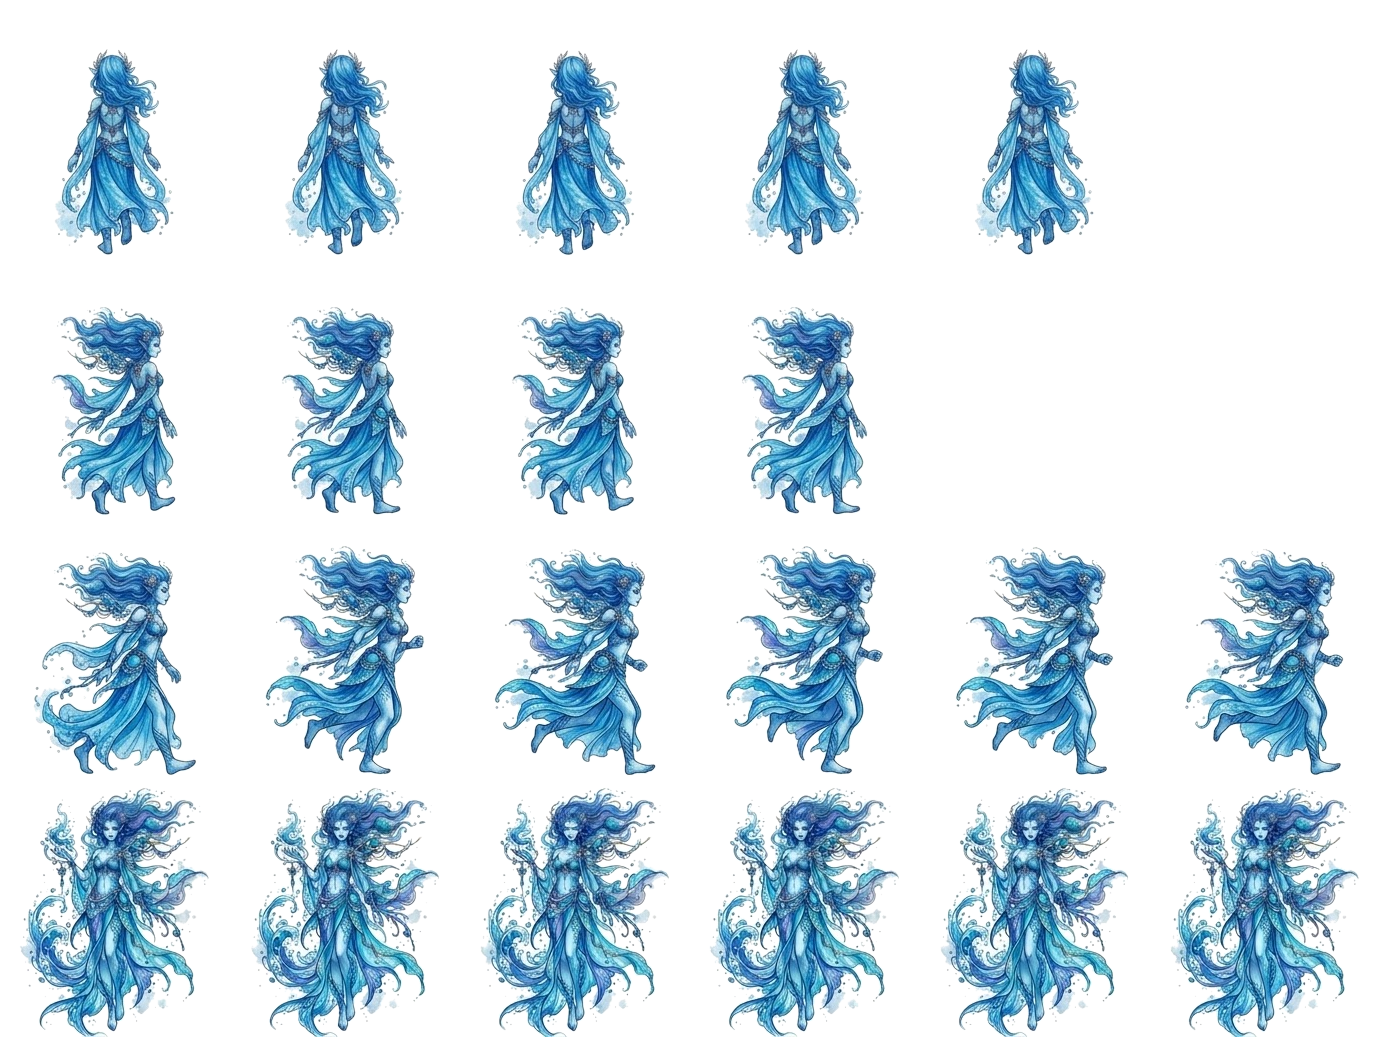
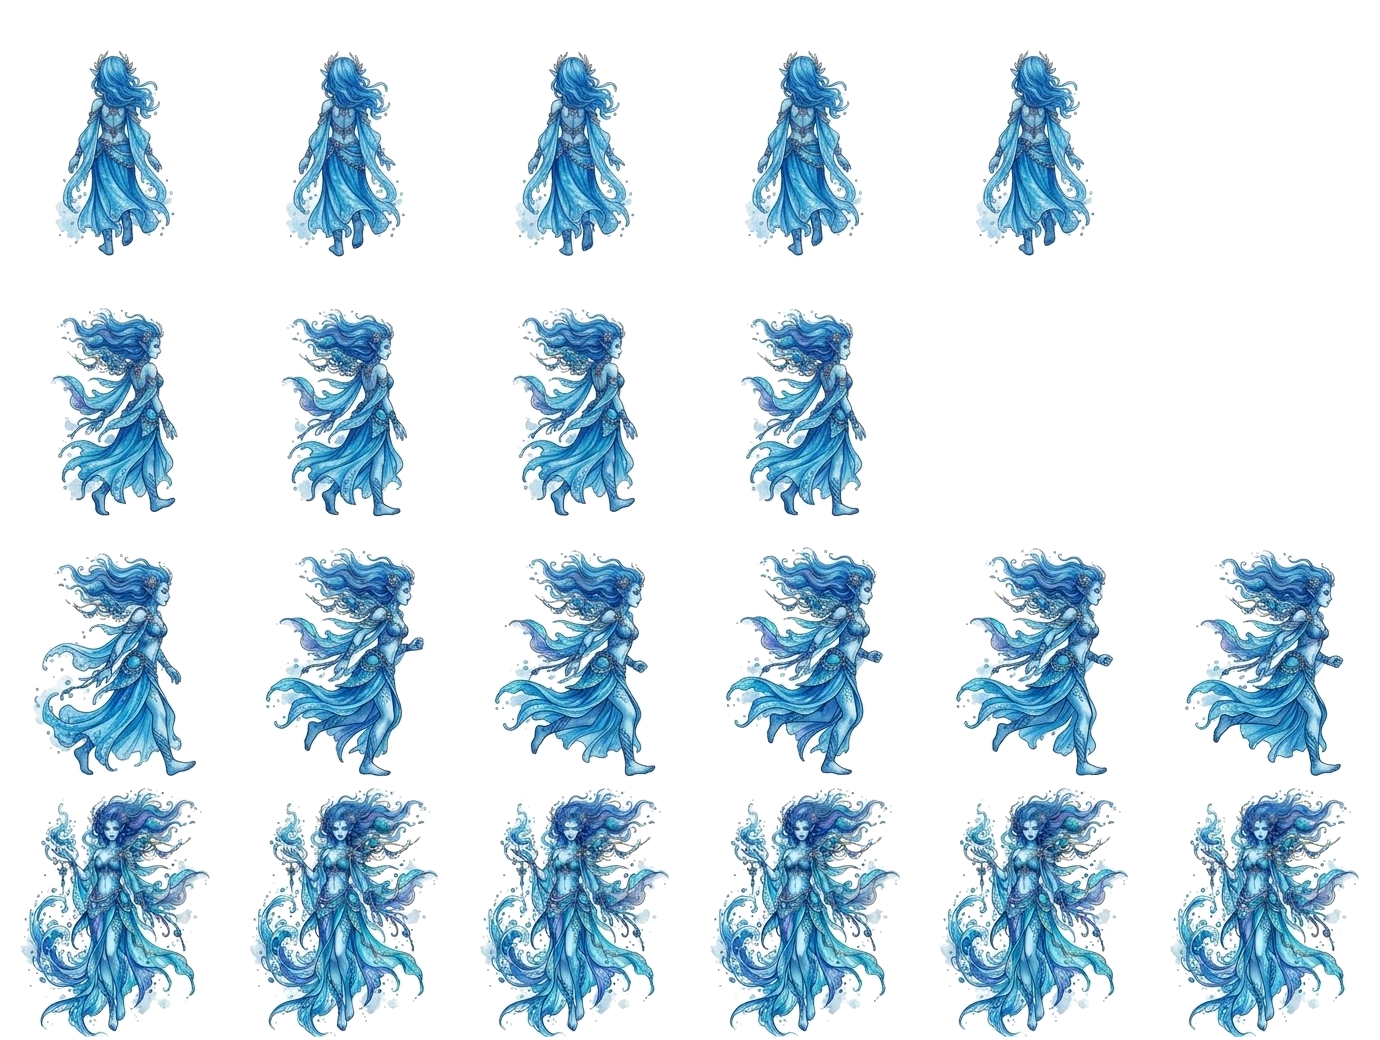
Water Nymph: white paper background and pale halos removed from her frames; softer blue glow
Claude-Session: https://claude.ai/code/session_016iBLHYMLHjCgJ7syNGEacS

diff --git a/src/game/22-jak-and-thorn-foes.js b/src/game/22-jak-and-thorn-foes.js
@@ -141,7 +141,7 @@ function drawThornFoe(g){if(CAPTURE.on&&g===BATTLE.capG)return;
   if(g.kind==='flora'){const fi=g.bl<1?Math.min(7,Math.floor(g.bl*8)):0;ctx.fillStyle='rgba(0,0,0,.28)';ctx.beginPath();ctx.ellipse(g.x,g.y,30,7,0,0,TAU);ctx.fill();c1Frame(ctx,'flora',g.bl<1?'bloom':'idle',g.bl<1?fi:Math.floor(T*6+g.ph*3)%6,g.x,g.y+2,118,g.x<lum.x,1,0);
     if(g.bl>.5){ctx.save();ctx.globalCompositeOperation='lighter';drawGlow(ctx,g.x,g.y-80,40,'255,90,100',.18*g.bl);ctx.restore();}return;}
   if(g.kind==='rslime'){ctx.fillStyle='rgba(20,10,10,.25)';ctx.beginPath();ctx.ellipse(g.x,g.y+2,34,8,0,0,TAU);ctx.fill();const im=IMG.jelly_idle_red,w=104,h=w*(ready(im)?im.naturalHeight/im.naturalWidth:.7),hov=12+Math.sin(g.ph*1.6)*4;drawGlow(ctx,g.x,g.y-hov-h*.55,w*.7,'255,120,130',.22);drawJellySprite(im,g.x,g.y-hov,w,h,g.ph,0,1);return;}
-  if(g.kind==='nymph'){const h=150;ctx.fillStyle='rgba(0,0,0,.25)';ctx.beginPath();ctx.ellipse(g.x,g.y,h*.2,h*.05,0,0,TAU);ctx.fill();ctx.save();ctx.globalCompositeOperation='lighter';drawGlow(ctx,g.x,g.y-h*.5,h*.6,'90,170,255',.2);ctx.restore();
+  if(g.kind==='nymph'){const h=150;ctx.fillStyle='rgba(0,0,0,.25)';ctx.beginPath();ctx.ellipse(g.x,g.y,h*.2,h*.05,0,0,TAU);ctx.fill();ctx.save();ctx.globalCompositeOperation='lighter';drawGlow(ctx,g.x,g.y-h*.5,h*.55,'90,170,255',.1);ctx.restore();
     if(g.moving)c1Frame(ctx,'nymph','side',Math.floor(g.ph*7)%4,g.x,g.y,h,g.face<0,1,0);else c1Frame(ctx,'nymph','idle',Math.floor(g.ph*5)%6,g.x,g.y,h,false,1,0);return;}
   if(g.kind==='ffox'){const h=118;ctx.fillStyle='rgba(0,0,0,.3)';ctx.beginPath();ctx.ellipse(g.x,g.y,h*.42,h*.07,0,0,TAU);ctx.fill();c1Frame(ctx,'fox_forest','run',g.moving?Math.floor(g.ph*14)%12:0,g.x,g.y,h,g.face>0,1,0);return;}
   if(g.kind==='gwisp'){const h=96,hov=16+Math.sin(g.ph*2.2)*6;ctx.fillStyle='rgba(0,0,0,.22)';ctx.beginPath();ctx.ellipse(g.x,g.y,30,7,0,0,TAU);ctx.fill();ctx.save();ctx.globalCompositeOperation='lighter';drawGlow(ctx,g.x,g.y-hov-h*.5,h*.8,'200,240,90',.3);ctx.restore();c1Frame(ctx,'wisp_grove','idle',Math.floor(g.ph*6)%4,g.x,g.y-hov,h,false,1,0);return;}

diff --git a/src/game/23-battle-kit.js b/src/game/23-battle-kit.js
@@ -181,7 +181,7 @@ function drawBattleDemon(f){const S=bS(),B=BATTLE,isBrute=f.type==='brute',bg=f.
 
 /* the Water Nymph (designer's art): stands in her casting pose; on her turn water gathers in her raised hand and two water bolts fly at a hero */
 function drawBattleNymph(f){const S=bS(),B=BATTLE,me=B.foes[B.foeI]===f,x=f.x+f.ox,y=f.y+f.oy,h=Math.min(230*S,W*.42)*(f.s||1);let al=1;if(f.dead){al=Math.max(0,1-f.dead/.7);if(al<=0)return;}
-  bshadow(x,y,h*.2,h*.05,.3*al);ctx.save();ctx.globalCompositeOperation='lighter';drawGlow(ctx,x,y-h*.5,h*.55,'90,170,255',(.12+.05*Math.sin(T*2+f.ph))*al);ctx.restore();
+  bshadow(x,y,h*.2,h*.05,.3*al);ctx.save();ctx.globalCompositeOperation='lighter';drawGlow(ctx,x,y-h*.5,h*.5,'90,170,255',(.07+.03*Math.sin(T*2+f.ph))*al);ctx.restore();
   const wind=me&&B.phase==='foeWind'?(f.wind||0):0;ctx.save();ctx.globalAlpha=al;c1Frame(ctx,'nymph','idle',Math.floor(T*5+f.ph)%6,x+(f.hit>0?Math.sin(f.hit*50)*4:0),y+Math.sin(T*1.6+f.ph)*3*S,h,false,al,f.hit>0?Math.min(1,f.hit*3):0);ctx.restore();
   const hx=x-h*.27,hy=y-h*.66;if(wind>0){ctx.save();ctx.globalCompositeOperation='lighter';drawGlow(ctx,hx,hy,(14+36*wind)*S,'120,200,255',.6);drawGlow(ctx,hx,hy,(5+12*wind)*S,'230,248,255',.8);ctx.restore();}
   if(me&&B.phase==='foeLeap'&&B.t>=0&&f.tgt){const u=Math.min(1,B.t/B.leapD),tx=f.tgt.x+f.tgt.ox,ty=f.tgt.y-85*S;ctx.save();ctx.globalCompositeOperation='lighter';
